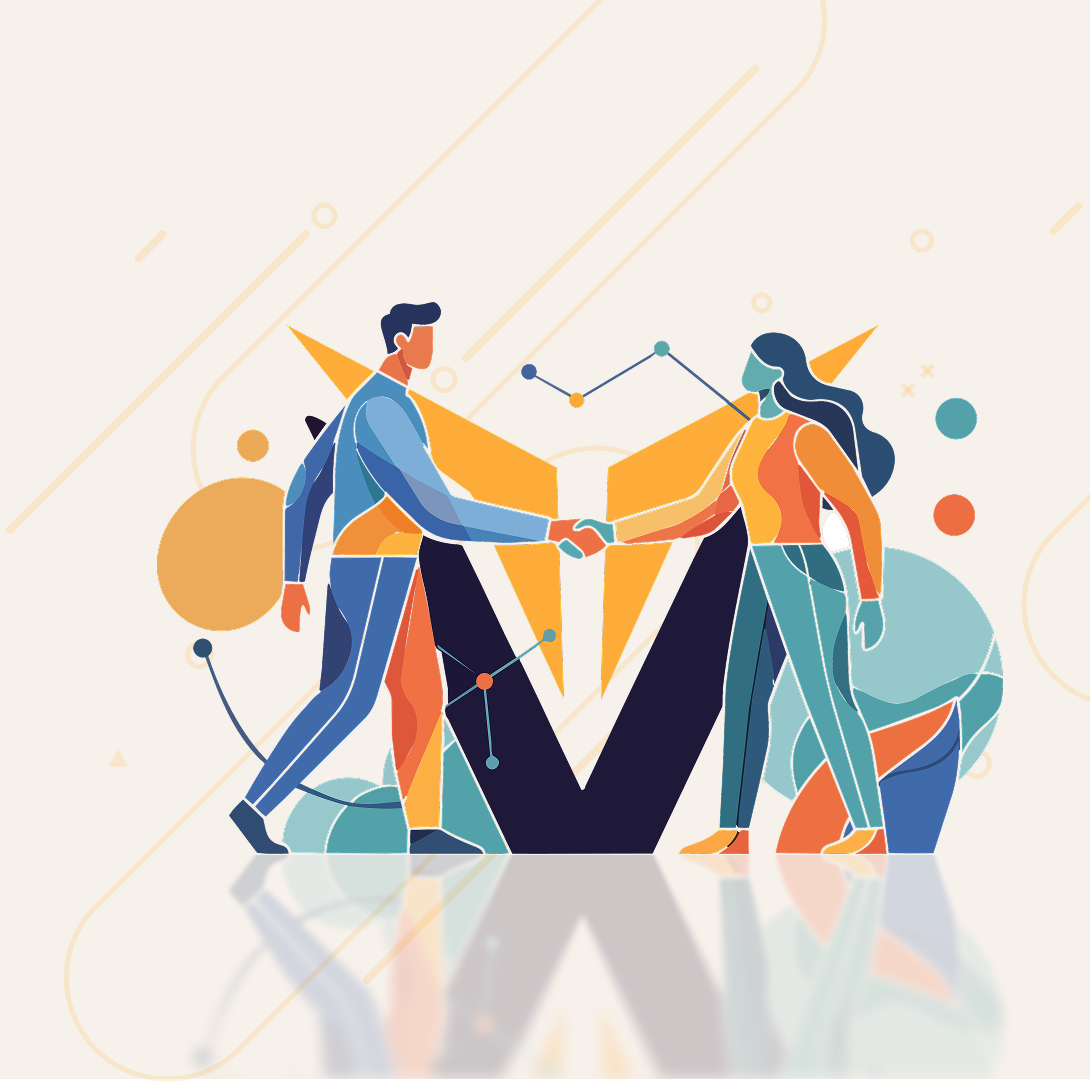
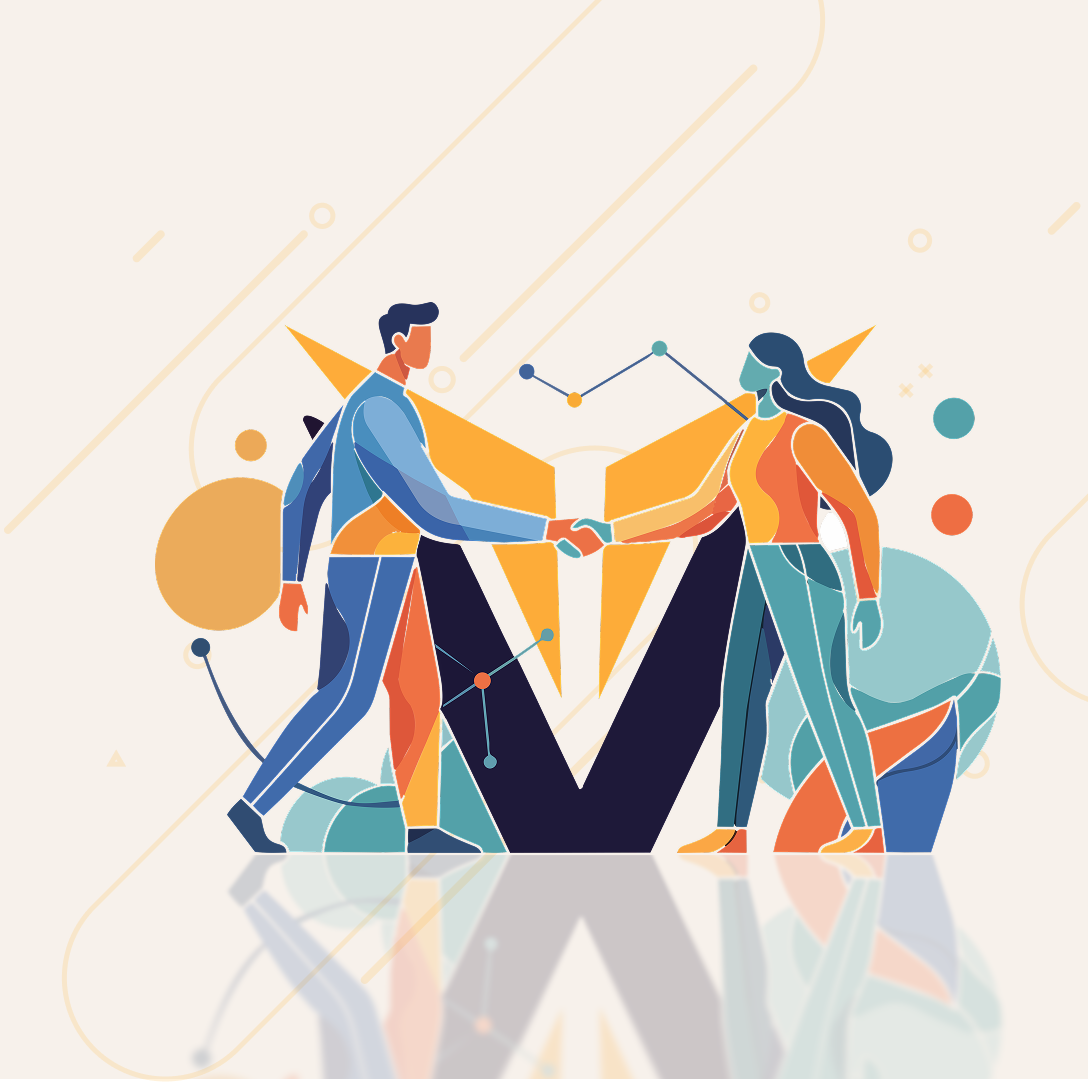
wip

diff --git a/style.scss b/style.scss
@@ -9,6 +9,7 @@
     font-weight: 400;
     font-style: normal;
     color: #12102B;
+    scroll-behavior: smooth;
 }
 
 .valkyra_main_container {
@@ -158,6 +159,10 @@
         background-position: right;
         background-color: #F7F1EB;
 
+        @media (max-width: 768px) {
+            background-position: bottom;
+        }
+
 
         .content_wrapper {
             display: flex;
@@ -184,7 +189,7 @@
             }
 
             p {
-                font-size: clamp(16px, 8vw, 32px);
+                font-size: clamp(16px, 4vw, 32px);
                 font-style: normal;
                 font-weight: 400;
                 line-height: 146%;
@@ -469,6 +474,7 @@
                                 @media (max-width: 1550px) {
                                     max-width: 600px;
                                 }
+
                                 @media (max-width: 768px) {
                                     line-height: 26px;
                                 }

diff --git a/style.css b/style.css
@@ -8,6 +8,7 @@
   font-weight: 400;
   font-style: normal;
   color: #12102B;
+  scroll-behavior: smooth;
 }
 
 .valkyra_main_container .container {
@@ -137,6 +138,11 @@
   background-position: right;
   background-color: #F7F1EB;
 }
+@media (max-width: 768px) {
+  .valkyra_main_container .hero_section {
+    background-position: bottom;
+  }
+}
 .valkyra_main_container .hero_section .content_wrapper {
   display: flex;
   flex-direction: column;
@@ -161,7 +167,7 @@
   line-height: 106%;
 }
 .valkyra_main_container .hero_section .content_wrapper p {
-  font-size: clamp(16px, 8vw, 32px);
+  font-size: clamp(16px, 4vw, 32px);
   font-style: normal;
   font-weight: 400;
   line-height: 146%;

diff --git a/index.html b/index.html
@@ -21,9 +21,9 @@
             </button>
 
             <div class="menu_wrapper" id="menuWrapper">
-                <a href="#">Wazdan Group</a>
-                <a href="#">What do we do?</a>
-                <a href="#">Why join us?</a>
+                <a href="#wazdan_group">Wazdan Group</a>
+                <a href="#what_we_do">What do we do?</a>
+                <a href="#join_us">Why join us?</a>
                 <a href="mailto:contact@valkyra.team">Contact</a>
             </div>
         </div>
